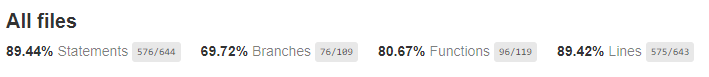
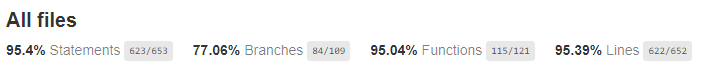
TU-26: Updated openapi, readme and coverage

Changed region(s): [[0.0, 0.5714, 0.9929, 0.7273], [0.0, 0.1558, 0.1241, 0.3636]]

diff --git a/src/controllers/user/User.controller.ts b/src/controllers/user/User.controller.ts
@@ -1,7 +1,7 @@
 import { NextFunction, Request, Response, Router } from 'express';
 import authTokenValidation from '../../middleware/authentication/AuthTokenValidation.middleware';
 import UserService from '../../services/user/User.service';
-import UserNotFoundResponse from '../../services/user/dto/UserNotFoundResponse';
+import UserNotFoundResponse from './dto/UserNotFoundResponse';
 import authorizationValidation from '../../middleware/authorization/AuthorizationValidation.middleware';
 import dtoValidation from '../../middleware/error-handling/DtoValidation.middleware';
 import ChangeRoleRequest from './dto/ChangeRoleRequest.dto';

diff --git a/README.md b/README.md
@@ -10,35 +10,42 @@ Team.Up backend application is created in Express.js and uses MongoDB. It is bui
 
 Frontend is available here: https://github.com/hejs22/team.up-ui
 
+## Built with
+Express.js, Node.js, TypeScript, MongoDB. For tests I have used Jest with Supertest.
+
 ## Features
 
 ### What can user do?
 
-- create account, sign in and sign out,
-- authenticate with usage of JWT,
-- refresh set of auth tokens,
-- access own details,
-- access list of sport disciplines,
-- access list of sport events,
-- create own sport events,
-- modify or delete sport events created by that user.
+- create account, sign in and sign out ✅
+- authenticate with usage of JWT ✅
+- refresh set of auth tokens ✅
+- access own details ✅
+- access list of sport disciplines ✅
+- access list of sport events ✅
+- create own sport events ✅
+- modify or delete sport events created by that user ✅
+- enroll for any sport event ⌛
+- remove enrollment ⌛
 
 ### What can admin do?
 
-- everything user can do,
-- access list of users' details,
-- change other users' roles,
-- add, modify or delete sport disciplines,
-- modify or delete sport events created by anyone.
+- everything user can do ✅
+- access list of users' details ✅
+- change other users' roles ✅
+- remove users accounts ⌛
+- add, modify or delete sport disciplines ✅
+- modify or delete sport events created by anyone ✅
 
 ### Additional implemented things
 
-- Migrations system,
-- Integration tests with usage of Jest,
-- High code coverage of each use case,
-- Configuration via envs,
-- OpenAPI,
-- Logger.
+- Migrations system ✅
+- Integration tests based on use cases ✅
+- High code coverage of each use case ✅
+- Configuration via envs ✅
+- OpenAPI ✅
+- Logger ✅
+- Tests environment ✅
 
 ## Coverage
 
